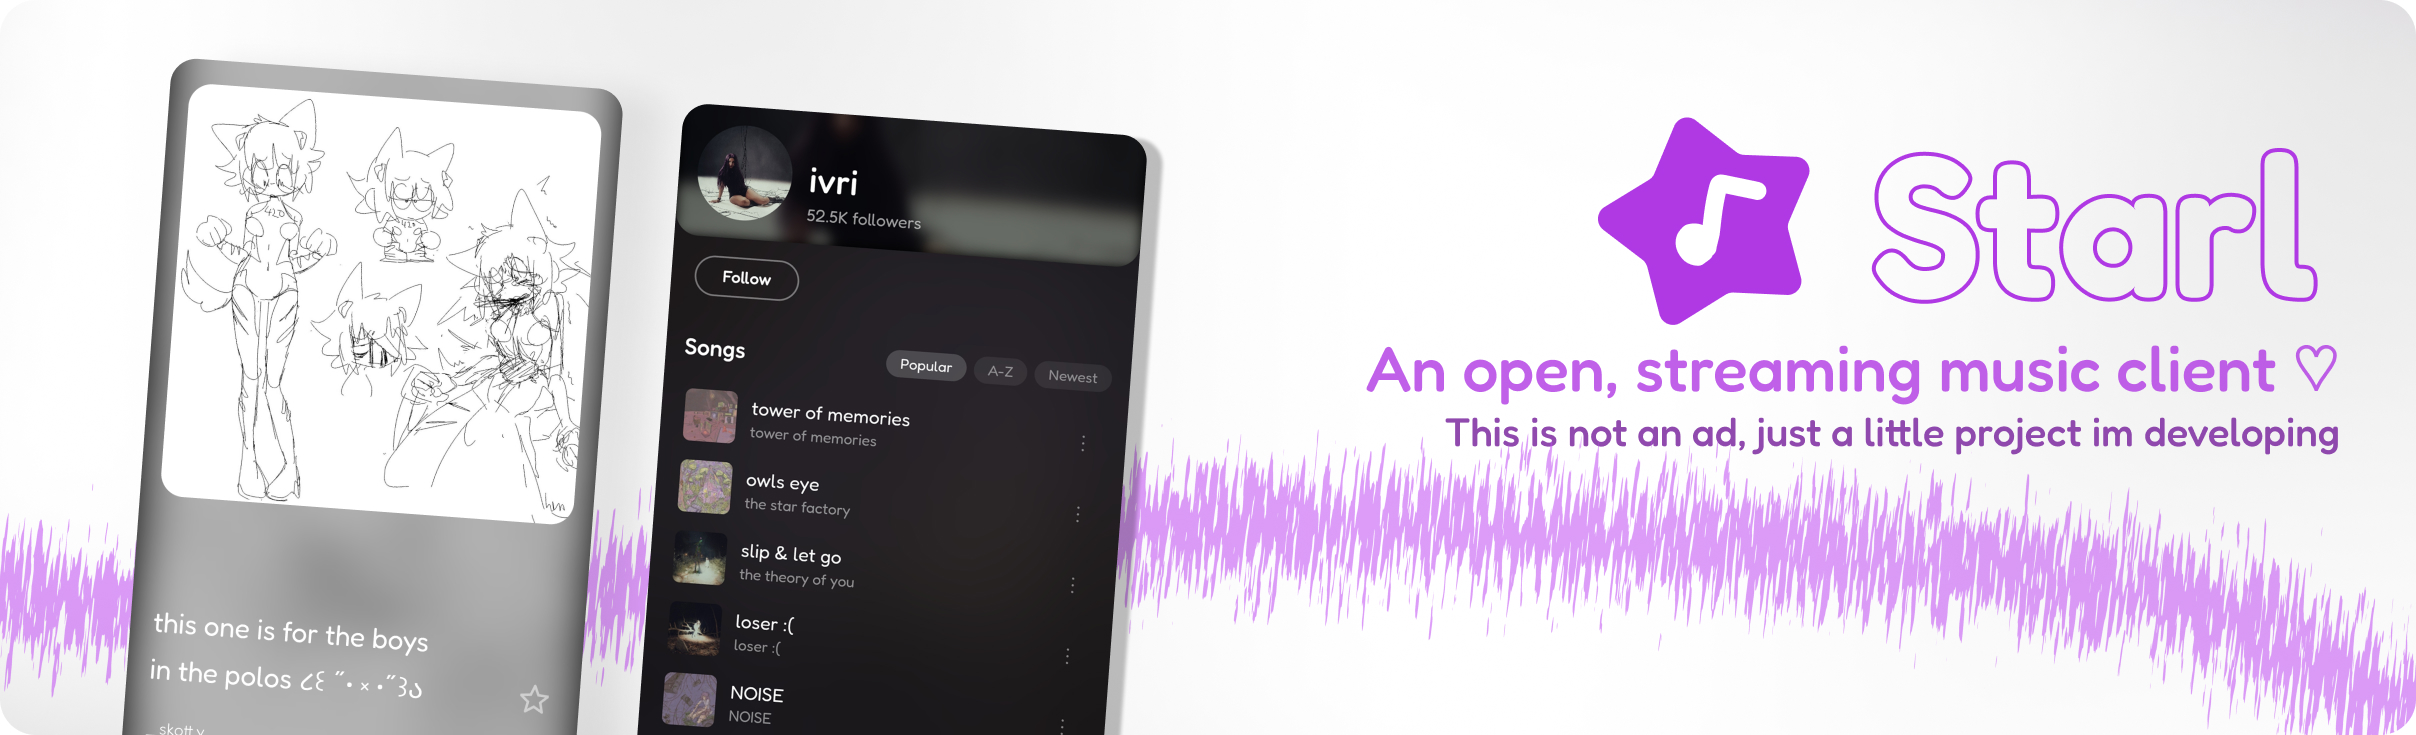
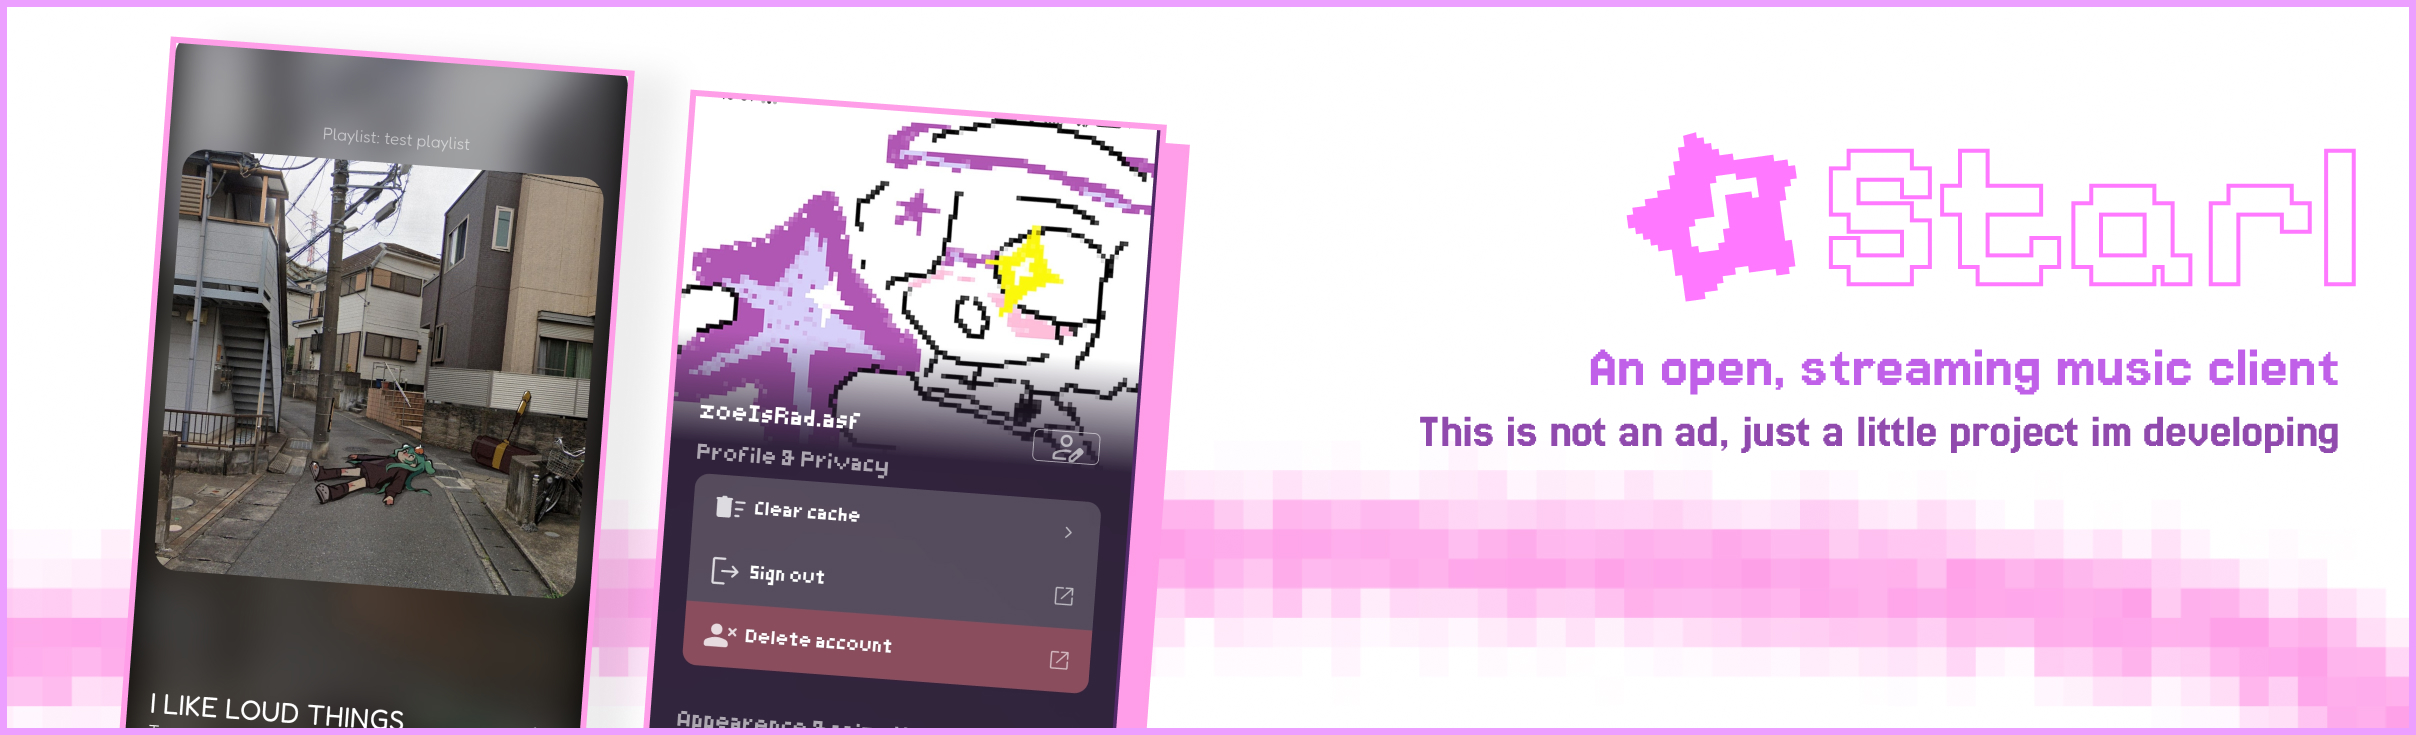
release 4.3.18.7
- new content and update on starl info.

diff --git a/p/index.html b/p/index.html
@@ -20,11 +20,12 @@
 			<section class="year-section">
 				<h2>2026</h2>
 				<div class="project-grid">
-					<a href="https://everm4iva.github.io/sap/archi2/info.json" class="project-tile indev" style="background-image: url('./info/starl-banner.png')">
-						<img src="./info/StarlIcon-white.png" alt="no-img" />
-						<div class="project-details ">
+					<a href="https://everm4iva.github.io/sap/archi2/info.json" class="project-tile indev" style="--gradient: linear-gradient(135deg, #ffffff 0%, #ffffff 100%)">
+
+						<img src="./info/PixelMadness.png" alt="no-img" />
+						<div class="project-details">
 							<div class="p-title">STARL</div>
-							<div class="p-details">may • open music platform</div>
+							<div class="p-details">may • open, streaming music platform</div>
 						</div>
 					</a>
 					<a

diff --git a/media/styles/p-index/banner.css b/media/styles/p-index/banner.css
@@ -27,7 +27,7 @@
 	background-repeat: no-repeat;
 	overflow: hidden;
 	position: relative;
-	border-radius: 15px;
+	/* border-radius: 15px; */
 }
 
 .banner-button a {
@@ -45,9 +45,15 @@
 	font-weight: 500;
 	border: none;
 	cursor: pointer;
-	transition: background-color 0.3s ease;
+	transition: all 0.3s cubic-bezier(0.4, 0, 0.2, 1);
 	margin-right: 2%;
 	margin-bottom: 2%;
+}
+
+
+.banner-button:hover {
+	transform: scale(1.15);
+	transition: all 0.3s cubic-bezier(0.4, 0, 0.2, 1);
 }
 
 .banner.hidden {
@@ -74,7 +80,7 @@
 .banner-img {
 	animation:
 		appear 2s ease,
-		bannerAnimation 15s ease infinite;
+		bannerAnimation 30s ease infinite;
 }
 
 .banner-text {

diff --git a/index.html b/index.html
@@ -71,7 +71,7 @@
 * ##         ## ##   ##       ##    ##  ##     ##       ##   ##    ## ##   ##     ##
 * ########    ###    ######## ##     ## ##     ##       ##  ####    ###    ##     ##   but you can call-me "crazy"
 */
-- Website version: <a href="./changelog.md">4.3.18.6</a> (last updated: 10 jun 2026) | see <a href="./LICENSE.txt">LICENSE</a>
+- Website version: <a href="./changelog.md">4.3.18.7</a> (last updated: 19 jun 2026) | see <a href="./LICENSE.txt">LICENSE</a>
 - This is my personal website, where i share a bit of me and some shit i do. Also a "repository" of my projects and their resources.
                     </pre>
 					<div

diff --git a/p/media/styles/root.css b/p/media/styles/root.css
@@ -111,6 +111,7 @@ footer {
 	object-fit: contain;
 	filter: drop-shadow(0 10px 20px rgba(0, 0, 0, 0.2));
 	transition: 0.2s ease-in-out;
+	image-rendering: pixelated;
 }
 
 .project-tile:hover img {

diff --git a/changelog.md b/changelog.md
@@ -1,3 +1,6 @@
+# release 4.3.18.7 (19 jun 2026)
+- new content and update on starl info.
+
 # release 4.3.18.6 (10 jun 2026)
 - new shiny animated cutizy banner in the index page!! - starl music
 - micro adjustments to the design of projects.
